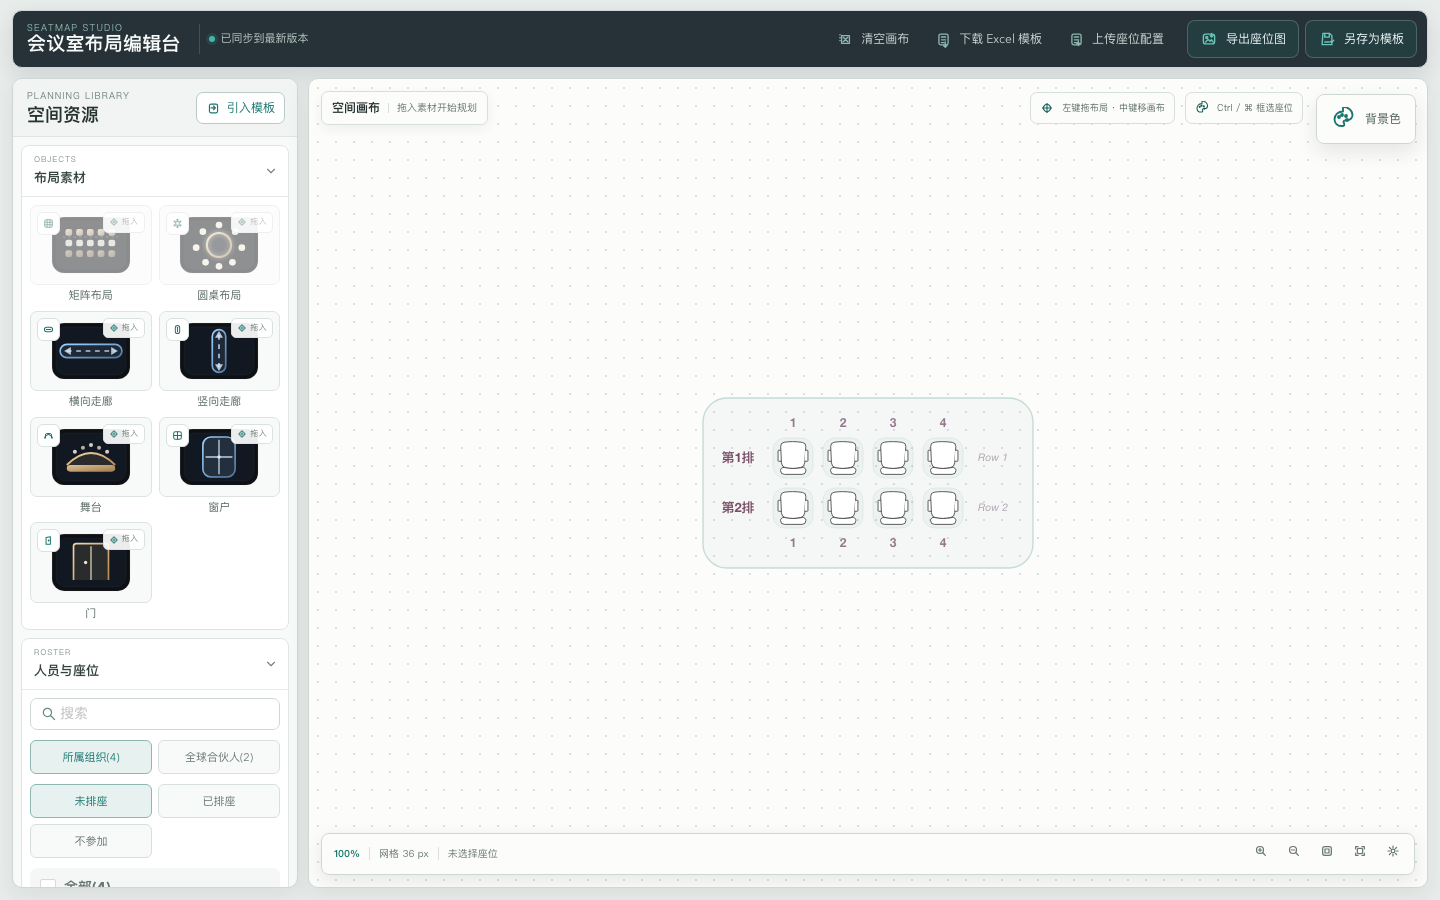
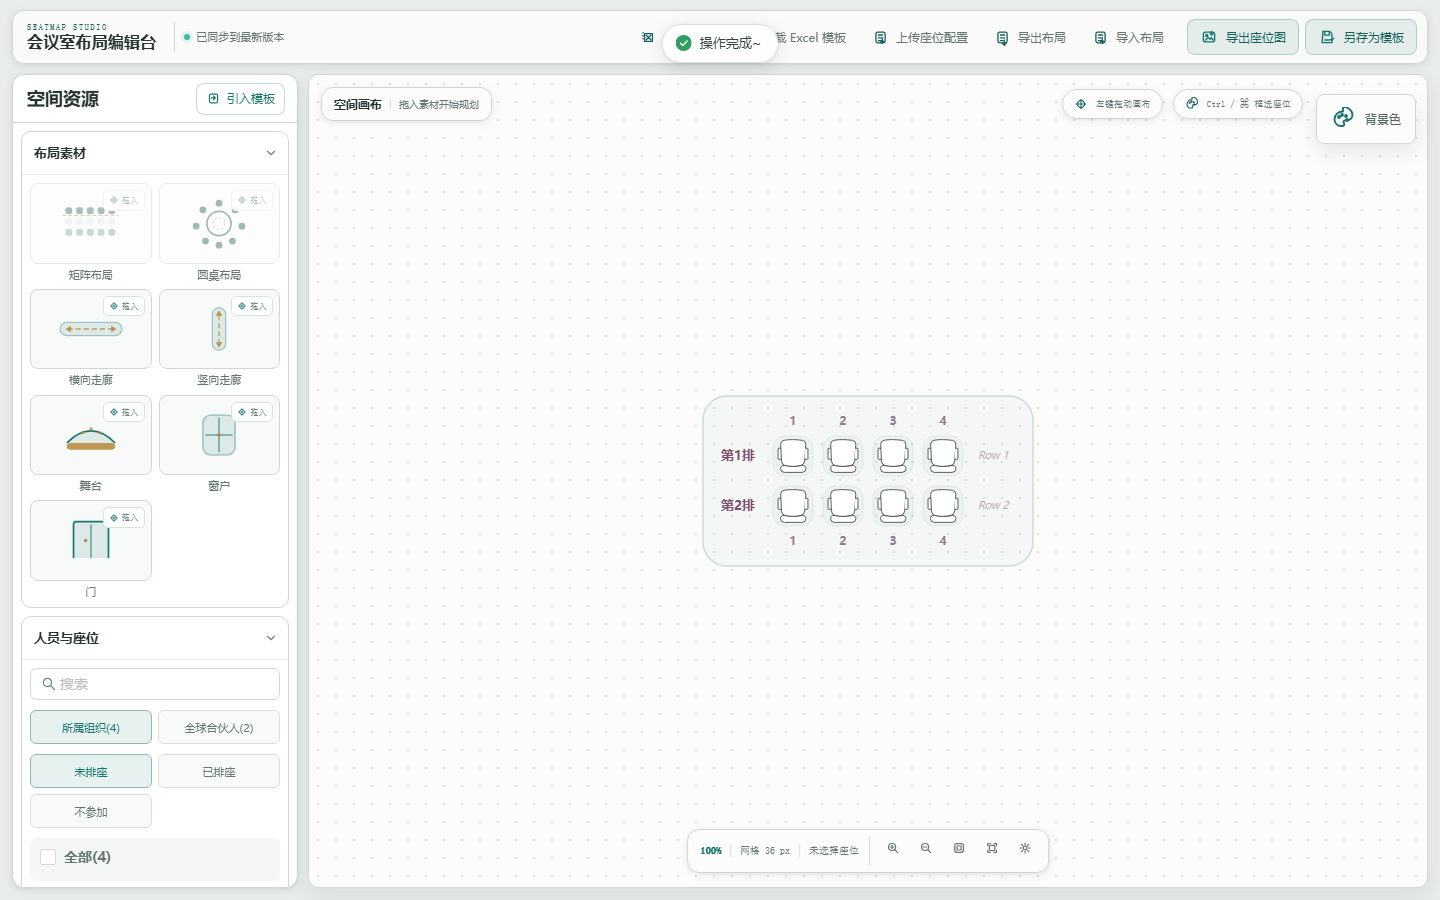
Clean dead assets and code, fix e2e scripts on Windows
- Delete 22 unreferenced asset files (old layout PNGs shadowed by materialArtwork.ts, unused seat/tool icons, svg arrows, Chinese-named leftover)
- Strip commented-out historical code from config, collapse panel, and drag material modules
- Move NO_PROXY defaults into the perf script and drop the unix-style env prefixes so pnpm test:e2e/test:perf run on Windows
- Refresh README screenshot via new pnpm capture:screenshot script (webpack serve + template load + viewport capture)

diff --git a/scripts/capture-readme-screenshot.js b/scripts/capture-readme-screenshot.js
@@ -1,0 +1,79 @@
+// 生成 README 用的编辑器截图（screenshots/screenshot.png）：
+// 自起 webpack-dev-server，加载示例模板后截取 1440x900 视口。
+// 用法：node ./scripts/capture-readme-screenshot.js（或 pnpm capture:screenshot）
+
+const http = require("http");
+const path = require("path");
+const { spawn } = require("child_process");
+const { chromium } = require("@playwright/test");
+
+process.env.NO_PROXY = process.env.NO_PROXY || "127.0.0.1,localhost,::1";
+process.env.no_proxy = process.env.no_proxy || "127.0.0.1,localhost,::1";
+
+const cwd = path.resolve(__dirname, "..");
+const nodeBinary = process.env.NODE_BINARY || process.execPath;
+const port = Number(process.env.SEATMAP_SHOT_PORT || 18090);
+const host = "127.0.0.1";
+const baseUrl = `http://${host}:${port}`;
+const outputPath = path.join(cwd, "screenshots", "screenshot.png");
+
+const waitForServer = () =>
+  new Promise((resolve, reject) => {
+    const startedAt = Date.now();
+    const retry = () => {
+      if (Date.now() - startedAt > 120000) {
+        reject(new Error("示例服务器未在 120 秒内启动"));
+        return;
+      }
+      setTimeout(ping, 500);
+    };
+    const ping = () => {
+      const request = http.get(baseUrl, (res) => {
+        res.resume();
+        if (res.statusCode && res.statusCode < 500) {
+          resolve();
+        } else {
+          retry();
+        }
+      });
+      request.on("error", retry);
+    };
+    ping();
+  });
+
+const run = async () => {
+  const server = spawn(
+    nodeBinary,
+    [path.join("node_modules", "webpack-cli", "bin", "cli.js"), "serve", "--host", host, "--port", String(port)],
+    { cwd, stdio: "ignore" }
+  );
+
+  try {
+    await waitForServer();
+
+    const browser = await chromium.launch();
+    const page = await browser.newPage({ viewport: { width: 1440, height: 900 } });
+
+    await page.goto(`${baseUrl}/`);
+    await page.getByRole("button", { name: /所属组织/ }).waitFor({ timeout: 30000 });
+
+    // 载入示例模板，让截图里的画布有真实内容
+    await page.getByText("引入模板").click();
+    await page.getByText("模板选择").waitFor();
+    await page.getByRole("button", { name: /Boardroom Demo/ }).click();
+    await page.locator(".ant-modal").filter({ hasText: "模板选择" }).getByRole("button", { name: /提\s*交/ }).click();
+    await page.getByText("操作完成~").waitFor();
+    await page.waitForTimeout(900);
+
+    await page.screenshot({ path: outputPath });
+    await browser.close();
+    console.log(`README 截图已更新 -> ${outputPath}`);
+  } finally {
+    server.kill();
+  }
+};
+
+run().catch((error) => {
+  console.error(error);
+  process.exit(1);
+});

diff --git a/src/CustomNodeCollapsePanel/index.tsx b/src/CustomNodeCollapsePanel/index.tsx
@@ -1,16 +1,6 @@
 import React, { Suspense, useEffect, useImperativeHandle, useRef, useState } from "react";
-// import { Graph } from "@antv/x6";
-
-
-// import { useGraphInstance } from "x6-graph/react";
-// import ReactDom from 'react-dom'
-// import { NodeCollapseObj, nodes } from "../config";
-// import { useDrop, useDrag } from "ahooks";
 import DragMaterial from "./DragMaterial";
 import { getGraph, panelArr, panelType } from "../config";
-// import Draggable from "react-draggable";
-// import { HTML5Backend } from 'react-dnd-html5-backend'
-// import { DndProvider } from 'react-dnd'
 import "./index.less";
 import store from "../store";
 import { addDargAction } from "../store/actionCreators";
@@ -23,12 +13,6 @@ import AppIcon from "../Components/AppIcon";
 const PersonTree = React.lazy(() => import("./PersonTree"));
 const SelectTemplateForm = lazyForm(() => import("../Components/useFormModal/SelectTemplateForm"));
 
-// const normalizeNodePosition = (nodes: any) => {
-//   nodes.forEach((node: any) => {
-//     node.x -= node.size.width / 2;
-//     node.y -= node.size.height / 2;
-//   });
-// };
 interface PersonTreeType {
   onRef: any;
   loadTree$: EventEmitter<void>;
@@ -37,17 +21,11 @@ interface PersonTreeType {
 }
 
 const CustomNodeCollapsePanel: React.FC<PersonTreeType> = ({ onRef, loadTree$, getData, setRefresh }) => {
-  // const CustomNodeCollapsePanel = ({}) => {
-  // const graph = getGraph();
   const dndContainerRef = useRef<HTMLDivElement>();
   const [list, setList] = useState([]);
   const [openSections, setOpenSections] = useState<string[]>(["layout", "people"]);
 
   const innerRef: any = React.createRef();
-
-  // function selectDrag(state: any) {
-  //   return state.other.isDrag;
-  // }
 
   const selectDrag = useSelector((state: any) => state.other.isDrag);
   const { modalRef: selectTemplateModalRef, FormModal: SelectTemplateModal } = useFormModal(
@@ -62,11 +40,9 @@ const CustomNodeCollapsePanel: React.FC<PersonTreeType> = ({ onRef, loadTree$, g
   }));
 
   useEffect(() => {
-    let currentValue: any;
     // 监听state的变化
-    // const unsubscribe = store.subscribe(() => {
+    let currentValue: any;
     let previousValue = currentValue;
-    // currentValue = selectDrag(store.getState());
     currentValue = selectDrag;
 
     if (previousValue !== currentValue) {
@@ -94,11 +70,6 @@ const CustomNodeCollapsePanel: React.FC<PersonTreeType> = ({ onRef, loadTree$, g
 
       setList([...panelArr]);
     }
-    // });
-    // return () => {
-    //   // 取消监听
-    //   unsubscribe();
-    // };
   }, [selectDrag]);
 
   const importTemplate = () => {

diff --git a/src/config/index.tsx b/src/config/index.tsx
@@ -2,7 +2,6 @@ import { Graph } from "@antv/x6";
 import type { CellView, Node, View } from "@antv/x6";
 
 import {
-  img_triangle,
   img_matrix_layout,
   img_round_layout,
   img_transverse_corridor,
@@ -89,44 +88,7 @@ export const embedding = {
   },
 };
 
-// const MyButton = Button.define<Button.Options>({
-//   markup: [
-//     {
-//       tagName: "rect",
-//       selector: "button",
-//       attrs: {
-//         width: 20,
-//         height: 20,
-//         rx: 4,
-//         ry: 4,
-//         fill: "white",
-//         stroke: "#fe854f",
-//         "stroke-width": 2,
-//         cursor: "pointer",
-//       },
-//     },
-//     {
-//       tagName: "text",
-//       selector: "text",
-//       textContent: "+",
-//       attrs: {
-//         fill: "#fe854f",
-//         "font-size": 24,
-//         "text-anchor": "middle",
-//         "pointer-events": "none",
-//         x: 10,
-//         y: 17,
-//       },
-//     },
-//   ],
-//   onClick({ view, e }: any) {
-//   },
-// });
-
-// Graph.registerNodeTool("my-btn", MyButton, true);
-
 export const panelArr: panelType[] = [
-  // list: [
   {
     id: "1-1",
     name: "矩阵布局",
@@ -170,26 +132,6 @@ export const panelArr: panelType[] = [
     nodeType: "Door",
   },
 ];
-// };
-// {
-//   id: "2",
-//   name: "场景布局",
-//   img: img_triangle,
-//   list: [
-//     {
-//       id: "2-1",
-//       name: "横向走廊",
-//       img: img_transverse_corridor,
-//       nodeType: "Aisle",
-//     },
-//     {
-//       id: "2-2",
-//       name: "竖向走廊",
-//       img: img_vertical_corridor,
-//       nodeType: "Corridor",
-//     },
-//   ],
-// },
 
 export const ColorArr = [
   {

diff --git a/src/CustomNodeCollapsePanel/DragMaterial/index.tsx b/src/CustomNodeCollapsePanel/DragMaterial/index.tsx
@@ -11,7 +11,6 @@ import {
 import { IsDragElement, MatrixSize, getGraph, panelType, setDragNodeType } from "../../config";
 import store from "../../store";
 import { addDargAction } from "../../store/actionCreators";
-// import { initCircle } from "../../CreateCircle";
 import useFormModal from "../../Components/useFormModal";
 import { lazyForm } from "../../Components/useFormModal/lazyForm";
 import AppIcon from "../../Components/AppIcon";
@@ -80,9 +79,7 @@ const DragItem: React.FC<IMyProps> = ({ child }) => {
       const p1 = graph.pageToLocal(x, y);
       if (child.nodeType === "Matrix") {
         matrixModalRef.current?.open({ matrix: { x: p1.x, y: p1.y, graph } });
-        // initMatrix(p1.x, p1.y, graph);
       } else if (child.nodeType === "Round") {
-        // initCircle(p1.x, p1.y, graph);
         circleModalRef.current?.open({ circle: { x: p1.x, y: p1.y, graph } });
       } else if (child.nodeType === "Corridor") {
         handleOffsetCorridor("add");

diff --git a/scripts/run-seatmap-perf.js b/scripts/run-seatmap-perf.js
@@ -3,6 +3,10 @@ const path = require("path");
 const { spawn } = require("child_process");
 const { chromium } = require("@playwright/test");
 
+// 与 playwright.config.ts 相同的代理绕过默认值，替代脚本里的 unix 风格赋值前缀（Windows 下无法执行）
+process.env.NO_PROXY = process.env.NO_PROXY || "127.0.0.1,localhost,::1";
+process.env.no_proxy = process.env.no_proxy || "127.0.0.1,localhost,::1";
+
 const cwd = path.resolve(__dirname, "..");
 const nodeBinary = process.env.NODE_BINARY || process.execPath;
 const port = Number(process.env.SEATMAP_PERF_PORT || 18081);

diff --git a/src/assets/index.ts b/src/assets/index.ts
@@ -1,5 +1,4 @@
 // export {default as admin01} from './images/admin01.png'
-export { default as img_triangle } from "./images/img_triangle.png";
 export {
   img_matrix_layout,
   img_round_layout,
